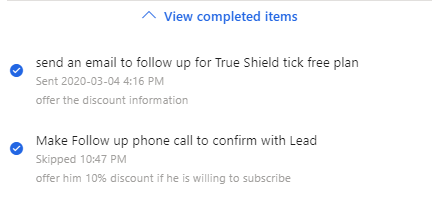
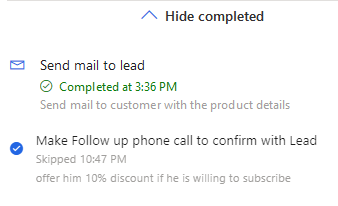
added images

diff --git a/ai-docs/sales/prioritize-sales-pipeline-through-work-list.md b/ai-docs/sales/prioritize-sales-pipeline-through-work-list.md
@@ -13,9 +13,9 @@ manager: shujoshi
 
 During the day, sellers have multiple tasks they need to juggle and multiple leads and opportunities they are working on. As a result, it is hard for sellers to plan and prioritize customer facing activities. The worklist in Sales accelerator of Dynamics 365 Sales Insights helps sellers to manage their day and work according to the priorities by ensuring that important leads and opportunity are not left behind. 
 
-The work list in sales accelerator provides the following capabilities: 
+Work list in sales accelerator provides the following capabilities: 
 
-- Manage and view all records, such as leads and opportunities, with the due activity for the day, sorted by priority, and remove records from the work list after an activity is complete. To learn more, see [View my records through work list](#view-my-records-through-work-list).
+- Manage and view all records, such as leads and opportunities, with the due activity for the day, sorted by priority, and remove records from work list after an activity is complete. To learn more, see [View my records through work list](#view-my-records-through-work-list).
 
 - Manage work list by sorting, filtering, and grouping all records. To learn more, see [Filter records in work list](#filter-records-in-work-list).
 
@@ -29,9 +29,9 @@ A sales manager configures the worklist by defining the sequence for the leads a
 
 ## Prerequisites
 
-Review the following prerequisites before you start using the engagement center:
+Review the following prerequisites before you start using work list:
 
-- Sales accelerator feature is installed in your organization and your role is assigned to access work list . To learn more, [Enable and configure Sales accelerator](enable-configure-sales-accelerator.md).
+- Sales accelerator feature is installed in your organization and your role is assigned to access work list. To learn more, [Enable and configure Sales accelerator](enable-configure-sales-accelerator.md).
 
 - A softphone and an email server are configured for your security role. 
 
@@ -41,7 +41,7 @@ Review the following prerequisites before you start using the engagement center:
 
 ## View my records through work list
 
-The work list displays a list of records that are assigned to you or to the security role you are associated with. The records display activities that are due for the current date and pending from previous dates that are created manually or through the sequence. This helps you to access records with activities at one location instead of navigating across multiple forms in the application. A sales manager can configure and determine the entities (leads and opportunities) to display to you in the  work list. The top of the record in the work list  will always be the next best customer with the highest prediction score.
+Work list displays a list of records that are assigned to you or to the security role you are associated with. The records display activities that are due for the current date and pending from previous dates that are created manually or through the sequence. This helps you to access records with activities at one location instead of navigating across multiple forms in the application. A sales manager can configure and determine the entities (leads and opportunities) to display to you in work list. The top of the record in work list  will always be the next best customer with the highest prediction score.
 
 Follow these steps to view work list: 
 
@@ -51,9 +51,10 @@ Follow these steps to view work list:
 
 3. From the site map, under **My Work**, select **Sales accelerator (preview)**. 
 
-    The engagement center page opens, and the following screen is an example.
+    The work list page opens, and the following screen is an example.
 
-    <image>   
+    > [!div class="mx-imgBorder"]
+    > ![Work list page](media/sa-worklist-page.png "Work list page")
 
     | Number | Feature | Description |
     |--------|---------|-------------|
@@ -63,7 +64,7 @@ Follow these steps to view work list:
     
 ## Filter records in work list
 
-Use the filters to prioritize the records in the engagement center to reach the customers at the right time. Engagement center provides the following filtering mechanisms to prioritize the records:
+Use the filters to prioritize the records in work list to reach the customers at the right time. Work list provides the following filtering mechanisms to prioritize the records:
 
 - [Filter by](#filter-by)
 
@@ -77,29 +78,29 @@ Allows you to filter the list by selecting the entity and activity types. When y
     
 - The **Entity type** filter options are **Lead** and **Opportunity**. You can select both options to view all records. Also, you can select an individual entity to view only the records that belong to that entity.
         
-    You must select at least one option to display relevant records in the engagement center. Also, if there are no records that match your selected entity type, an empty list will be displayed.
+    You must select at least one option to display relevant records in work list. Also, if there are no records that match your selected entity type, an empty list will be displayed.
 
     By default, all filter options are selected.
 
-- The **Activity type** filter options are **Call**, **Email**, and **Task**. You can select all or any specific option to filter the records to display in the work list .
+- The **Activity type** filter options are **Call**, **Email**, and **Task**. You can select all or any specific option to filter the records to display in work list.
 
-    You must select at least one option to display relevant records in the engagement center. Also, if there are no records that match your selected activity type, an empty list will be displayed.
+    You must select at least one option to display relevant records in work list. Also, if there are no records that match your selected activity type, an empty list will be displayed.
 
     By default, all filter options are selected.
 
-For example, when you select the entity type as **Lead** and the activity type as **Call**, the work list displays only the records that are of type lead and has the activity as call.
+For example, when you select the entity type as **Lead** and the activity type as **Call**, work list displays only the records that are of type lead and has the activity as call.
 
 ### Group by
 
 Allows you to group the records with the selected group type. Also, in the header, you can see the total number of records available in each group. The following group types are available:
 
-- **Due time**: When you select this option, the records in the engagement center are grouped according to the due time that an activity must complete. 
+- **Due time**: When you select this option, the records in work list are grouped according to the due time that an activity must complete. 
 
-    For example, there are ten records available in your engagement center. The number of records for which you need to complete the activities within the due time are as follows: three for today, four from yesterday, and three from this week. When you select the **Due time** option, the records are grouped as **Today**, **Yesterday**, and **Last 7 days**. 
+    For example, there are ten records available in your work list. The number of records for which you need to complete the activities within the due time are as follows: three for today, four from yesterday, and three from this week. When you select the **Due time** option, the records are grouped as **Today**, **Yesterday**, and **Last 7 days**. 
 
     By default, **Due time** is selected to group the records.
 
-- **Entity type**: When you select this option, the records are grouped according to entities. The records in the engagement center are grouped according to **Leads** and **Opportunities**.
+- **Entity type**: When you select this option, the records are grouped according to entities. The records in work list are grouped according to **Leads** and **Opportunities**.
 
 - **Activity type**: When you select this option, the records are grouped according to the activity type. The following activity types are available: **Call**, **Email**, and **Task**.
 
@@ -109,17 +110,17 @@ Allows you to group the records with the selected group type. Also, in the heade
 
 Allows you to sort the records according the selected sorting option. Also, in the header, you can see the total number of records available in each sort order. The following sorting options are available:
 
-- **Due time**: When you select this option, the records in the engagement center are sorted according to the due time that an activity must complete. Further, you can select the sort order as: 
+- **Due time**: When you select this option, the records in work list are sorted according to the due time that an activity must complete. Further, you can select the sort order as: 
 
     - **Oldest on top** to view the records with oldest date to complete an activity on the top in ascending order. 
 
     - **Newest on top** to view new records with latest date to complete an activity on the top in ascending order. 
 
-    For example, there are ten records available in your engagement center. The number of records for which you need to complete the activities within the due time are as follows: three for today, four from yesterday, and three from this week. When you select the **Due time** option to sort by and Newest on top for sort order, the records are sorted according to the activity completion date as **Today**, **Yesterday**, and **Last 7 days** and displayed in ascending order.
+    For example, there are ten records available in your work list. The number of records for which you need to complete the activities within the due time are as follows: three for today, four from yesterday, and three from this week. When you select the **Due time** option to sort by and Newest on top for sort order, the records are sorted according to the activity completion date as **Today**, **Yesterday**, and **Last 7 days** and displayed in ascending order.
 
     By default, **Due time** is selected for sort by and **Newest on top** for sort order to sort the records.
 
-- **Priority score**: When you select this option, the records in the engagement center are sorted according to the priority score assigned to each task. Further, you can select the sort order as:
+- **Priority score**: When you select this option, the records in work list are sorted according to the priority score assigned to each task. Further, you can select the sort order as:
 
     - **Lowest on top** to view the records in ascending order with lowest score on top
 
@@ -127,7 +128,7 @@ Allows you to sort the records according the selected sorting option. Also, in t
 
     For example, you have records with priority scores as, 95, 92, 89,45, 54, and 73. When you select the **Priority score** option to sort and **Highest on top** for order, records are sorted in descending order with the record that has highest score (95) on top.
 
-- **Name**: When you select this option, the records in the engagement center are sorted according to the record name.
+- **Name**: When you select this option, the records in work list are sorted according to the record name.
 
     Further, you can select the sort order as **A to Z** to view the records in ascending order and **Z to A** to view the records in descending order.
 
@@ -139,7 +140,10 @@ Using the Up next widget, you can view and perform actions on activities on a re
 
 - For manual tasks, you or a sales manager can create a task on the timeline. The task is displayed in the **Up next** widget as an activity depending on the due time. This activity is available to you and other sellers who have access to the record.
 
-<image>
+The following image is an example of **Up next** widget:
+
+> [!div class="mx-imgBorder"]
+> ![Up next widget](media/sa-up-next-widget.png "Up next widget")
 
 1. **Current activity**: The current activity is a task that you must complete or skip  to go to the next activity which moves the record closer to completion. To perform an action, such as phone call or send an email, select the action icon displayed in the activity. To learn more, [Connect with customers through a record or the up next widget ](connect-with-customers.md).
 
@@ -151,14 +155,14 @@ Using the Up next widget, you can view and perform actions on activities on a re
 
 3. **Completed activities**: The completed activities are the activities that are marked as complete or skipped for a record and the record is automatically moved to completed items.
     
-    To view the completed activities  list, select **View completed** items. The section expands to display the list of completed activities with details, such as the activity is completed or skipped with date and time. You can’t perform any actions on these tasks and are view only. The following screen is an example of an expanded section of completed items:
+    To view the completed activities  list, select **Show completed** items. The section expands to display the list of completed activities with details, such as the activity is completed or skipped with date and time. You can’t perform any actions on these tasks and are view only. The following screen is an example of an expanded section of completed items:
 
     > [!div class="mx-imgBorder"]
     > ![View completed activities](media/sa-view-completed-activities.png "View completed activities")
 
 ## Add manual tasks to records
 
-Using the sequence, you can define activities, such as email, call, and custom activity. As per your business requirement, you have to add extra activities to a lead or an opportunity apart from the assigned sequence. Sales accelerator allows you to add manual activities for leads and opportunities to appear in the **Up next** widget along with the activities defined in sequence for a given day. The manual activities include tasks, such as appointments, conversations, booking alerts, and send SMS.
+Using the sequence, you can define activities, such as email, phone call, and task. As per your business requirement, you have to add extra activities to a lead or an opportunity apart from the assigned sequence. Sales accelerator allows you to add manual activities for leads and opportunities to appear in the **Up next** widget along with the activities defined in sequence for a given day. The manual activities include email, phone call, and task.
 
 The characteristics of manual activities are similar to an activity defined in a sequence. Sellers must perform the task and mark it as complete. Then the activity will be moved to the list of completed activities in the **Up next** widget.
 
@@ -168,9 +172,12 @@ A sales manager or you, as a seller, can add the manual activity to the records 
 
 2. From the site map, under **My Work**, select **Sales accelerator (preview)**. 
 
-3. Select the record for which you want to add the manual task.
+3. Select the record for which you want to add the manual task from work list.
 
 4. On the **Timeline** section, select the plus icon to add a manual activity.
+
+    >[!NOTE]
+    >Only the **Email**, **Phone call**, and **Task** activities will be display in the **Up next** widget.
 
     The list of activities is displayed.
 
@@ -178,7 +185,7 @@ A sales manager or you, as a seller, can add the manual activity to the records 
 
 6. Save and close the activity.
 
-The activity is added to the record and displayed in the **Up next** widget as per the due date.
+    The activity is added to the record and displayed in the **Up next** widget as per the due date.
 
 ### See also
 
